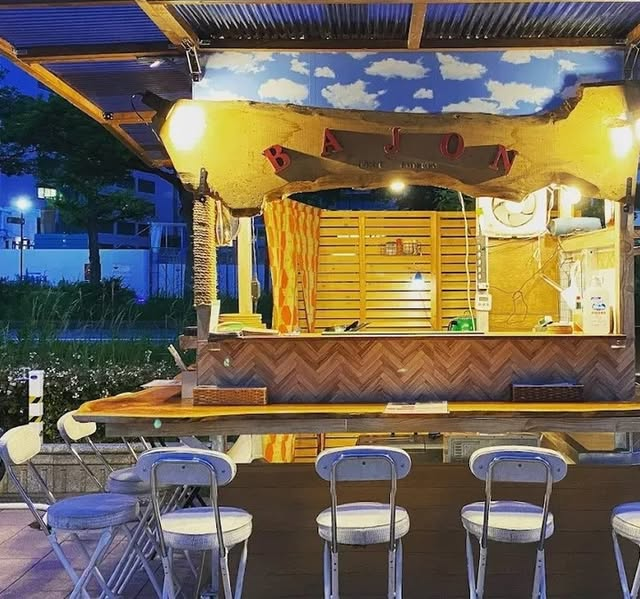
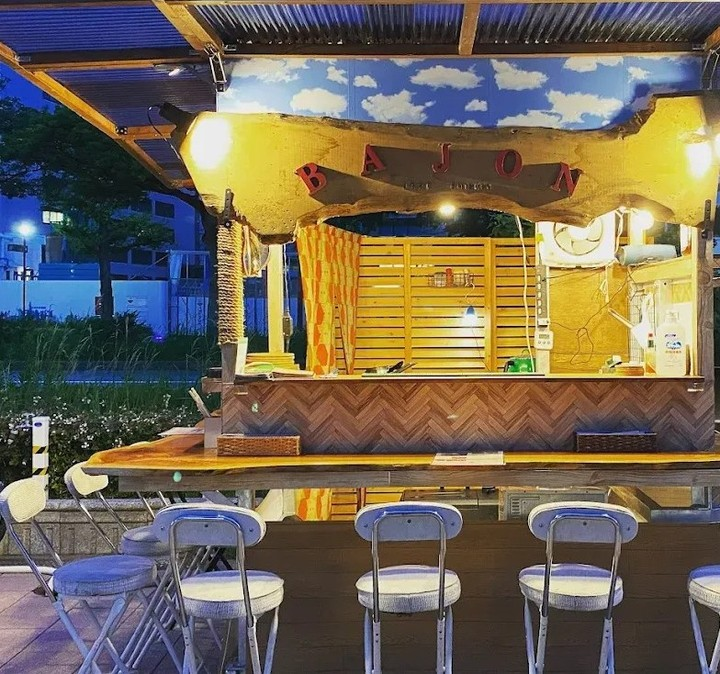
Replace yatai SVG illustration with real stall photo; high-res photos
- About panel now shows the owner's dusk photo of the stall (Instagram),
  edges masked into the red/black gradient, with a caption
- Swap all six photos for the larger originals from Instagram's embed
  pages (up to 1440px; previously 640px)
- Hero leads with the stall-front shot to avoid repeating the dusk photo;
  mosaic reordered around the tall tacos poster
- Remove YataiIllustration and its illustration-only tokens/animations

Changed region(s): [[0.5938, 0.4808, 0.625, 0.5109], [0.3125, 0.4207, 0.3438, 0.4508]]

diff --git a/app/globals.css b/app/globals.css
@@ -29,20 +29,6 @@
   --color-mute: oklch(72% 0.012 70);
   --color-line: oklch(36% 0.012 60);
 
-  /* 屋台イラスト用 */
-  --color-night: oklch(16% 0.03 268);
-  --color-night-3: oklch(25% 0.04 268);
-  --color-lamp: oklch(85% 0.14 82);
-  --color-lamp-deep: oklch(72% 0.15 68);
-  --color-lamp-ink: oklch(22% 0.04 60);
-  --color-sky: oklch(74% 0.09 232);
-  --color-cloud: oklch(97% 0.01 240);
-  --color-timber: oklch(52% 0.075 58);
-  --color-timber-dark: oklch(38% 0.06 50);
-  --color-rule: oklch(32% 0.04 268);
-  --color-ink: oklch(95% 0.018 85);
-  --color-ink-2: oklch(80% 0.022 85);
-  --color-ink-3: oklch(64% 0.03 268);
 
   --font-brush: "Yuji Boku", "Shippori Mincho B1", serif;
   --font-serif: "Shippori Mincho B1", "Yu Mincho", "Hiragino Mincho ProN", serif;
@@ -122,18 +108,18 @@ h1, h2, h3 {
 @keyframes slowzoom { from { transform: scale(1.02); } to { transform: scale(1.1); } }
 .slowzoom { animation: slowzoom 18s var(--ease-out) forwards; }
 
-/* 屋台イラスト */
-@keyframes sway { 0%, 100% { transform: rotate(-2.5deg); } 50% { transform: rotate(2.5deg); } }
-.lantern { transform-box: fill-box; transform-origin: 50% 0%; animation: sway 5.5s var(--ease-in-out) infinite; }
-.lantern-b { animation-duration: 6.4s; animation-delay: -2s; }
-@keyframes steam { 0% { transform: translateY(6px); opacity: 0; } 30% { opacity: 0.7; } 100% { transform: translateY(-26px); opacity: 0; } }
-.steam { animation: steam 3.6s var(--ease-out) infinite; }
-.steam-2 { animation-delay: -1.2s; }
-.steam-3 { animation-delay: -2.4s; }
-@keyframes twinkle { 0%, 100% { opacity: 0.25; } 50% { opacity: 0.9; } }
-.twinkle { animation: twinkle 4s var(--ease-in-out) infinite; }
-@keyframes glow { 0%, 100% { opacity: 0.85; } 50% { opacity: 1; } }
-.glow { animation: glow 3.2s var(--ease-in-out) infinite; }
+
+/* 写真の四辺を背景に溶かす */
+.fade-edges {
+  -webkit-mask-image:
+    linear-gradient(to bottom, transparent 0%, #000 14%, #000 72%, transparent 100%),
+    linear-gradient(to right, transparent 0%, #000 10%, #000 90%, transparent 100%);
+  -webkit-mask-composite: source-in;
+  mask-image:
+    linear-gradient(to bottom, transparent 0%, #000 14%, #000 72%, transparent 100%),
+    linear-gradient(to right, transparent 0%, #000 10%, #000 90%, transparent 100%);
+  mask-composite: intersect;
+}
 
 /* 地図を少し落ち着いた色に */
 .map-sepia { filter: grayscale(0.6) sepia(0.25) contrast(0.95); }
@@ -153,7 +139,7 @@ h1, h2, h3 {
 
 @media (prefers-reduced-motion: reduce) {
   html { scroll-behavior: auto; }
-  .lantern, .steam, .twinkle, .glow, .slowzoom { animation: none !important; }
+  .slowzoom { animation: none !important; }
   .reveal { transform: none; transition: opacity 150ms linear; }
   *, *::before, *::after { transition-duration: 150ms !important; }
 }

diff --git a/components/site/About.tsx b/components/site/About.tsx
@@ -1,13 +1,12 @@
 import { SITE } from "@/lib/site";
-import YataiIllustration from "./YataiIllustration";
 import Reveal from "./Reveal";
 
 const MOSAIC = [
-  { src: "/photos/stall-front.jpg", alt: "正面から見た屋台。天井には青空と雲が描かれている", cls: "col-span-2 row-span-2 lg:col-span-1" },
-  { src: "/photos/tacos-poster.jpg", alt: "パストールとジャメキシカン、2種のタコスの告知", cls: "" },
+  { src: "/photos/tacos-poster.jpg", alt: "パストールとジャメキシカン、2種のタコスの告知", cls: "row-span-2" },
   { src: "/photos/oven-dish.jpg", alt: "こんがり焼き上げた一皿", cls: "" },
-  { src: "/photos/jerk-chicken.jpg", alt: "炭火で焼いたジャークチキン", cls: "lg:col-span-2" },
   { src: "/photos/ramen.jpg", alt: "豚骨ラーメン", cls: "" },
+  { src: "/photos/stall-front.jpg", alt: "正面から見た屋台。天井には青空と雲が描かれている", cls: "" },
+  { src: "/photos/jerk-chicken.jpg", alt: "炭火で焼いたジャークチキン", cls: "lg:col-span-2" },
 ];
 
 export default function About() {
@@ -47,10 +46,20 @@ export default function About() {
         </Reveal>
       </div>
 
-      {/* 屋台のイラスト */}
-      <div className="mx-auto -mt-6 max-w-[620px] px-2 sm:-mt-10">
-        <YataiIllustration className="h-auto w-full" />
-      </div>
+      {/* 屋台の実写（日暮れどき）。四辺を朱と墨の背景へ溶かす */}
+      <Reveal as="figure" className="mx-auto mt-2 max-w-[1040px] sm:mt-0">
+        <img
+          src="/photos/stall-dusk.jpg"
+          alt="日暮れどき、天神・日銀前のビルの前で灯りがともった屋台 El Bajon。木のカウンターに白いスツールが並ぶ"
+          width={1440}
+          height={1080}
+          loading="lazy"
+          className="fade-edges block h-auto w-full"
+        />
+        <figcaption className="-mt-6 text-center text-[12px] font-bold tracking-[0.14em] text-paper/70 sm:-mt-10">
+          日暮れどきの El Bajon（天神・日銀前）
+        </figcaption>
+      </Reveal>
 
       {/* 30か国 */}
       <Reveal className="mx-auto mt-4 flex max-w-[1120px] flex-wrap items-center justify-center gap-x-6 gap-y-3 px-4 pb-12 sm:px-8 lg:pb-16">

diff --git a/components/site/HomeHero.tsx b/components/site/HomeHero.tsx
@@ -1,6 +1,6 @@
 /** 写真の三連（PC）／一枚（スマホ）に、縦書きのひとこと */
 const SHOTS = [
-  { src: "/photos/stall-dusk.jpg", alt: "日暮れどき、ビルの前で灯りがともった屋台 El Bajon", pos: "50% 55%" },
+  { src: "/photos/stall-front.jpg", alt: "正面から見た屋台 El Bajon。天井には青空と雲が描かれている", pos: "50% 50%" },
   { src: "/photos/jerk-chicken.jpg", alt: "炭火で焼いたジャークチキン", pos: "50% 50%" },
   { src: "/photos/ramen.jpg", alt: "チャーシューと紅しょうがをのせた豚骨ラーメン", pos: "50% 50%" },
 ];
